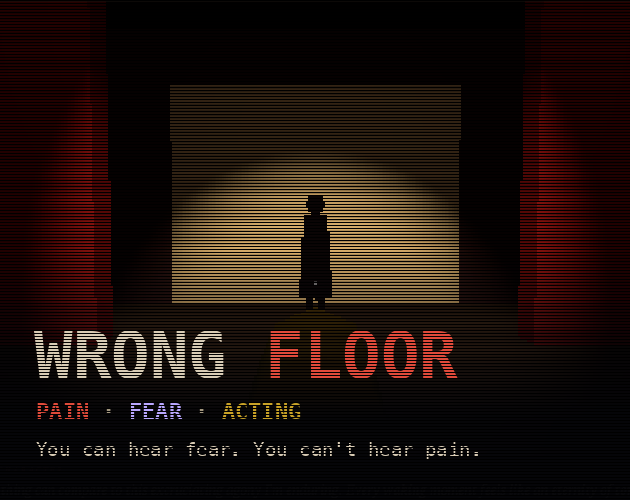
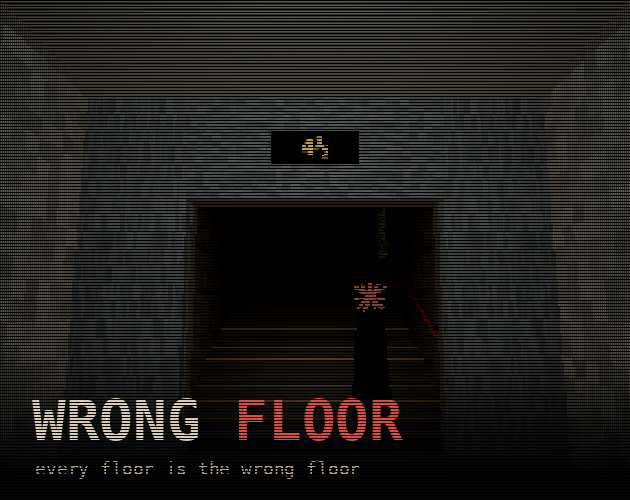
wrongfloor: the residents aren't people. Every figure and seated shape is now an alien: a long tipped skull, a cluster of mismatched eyes, a beard of swaying tentacles, a hunch, arms past the knee with three clawed fingers, two tentacles down the back. The clinic's patients sit up in their beds unde

diff --git a/site/wf_engine.js b/site/wf_engine.js
@@ -67,7 +67,8 @@ export function box(parent, w, h, d, mat, x, y, z, ry = 0) {
 export function plane(parent, w, h, mat, x, y, z, rx = 0, ry = 0) {
   const m = new THREE.Mesh(new THREE.PlaneGeometry(w, h, 2, 2), mat); m.position.set(x, y, z); m.rotation.set(rx, ry, 0); parent.add(m); return m;
 }
-export function figure(h = 1.78, color = 0x050404, eyes = true) {
+// a plain human shape: your reflection, and the body under the burst-headed follower
+function humanFigure(h, color, eyes) {
   const g = new THREE.Group(), m = new THREE.MeshBasicMaterial({ color });
   const body = new THREE.Mesh(new THREE.CylinderGeometry(0.17, 0.24, h * 0.62, 6), m); body.position.y = h * 0.47; g.add(body);
   const head = new THREE.Mesh(new THREE.SphereGeometry(0.13, 6, 5), m); head.position.y = h * 0.86; g.add(head);
@@ -78,9 +79,72 @@ export function figure(h = 1.78, color = 0x050404, eyes = true) {
   }
   g.userData.body = m; return g;
 }
+
+// ---------- the residents: not people. Whatever answers from inside the chamber ----------
+// Tentacles sway on their own: every live one is in SWAY, and the engine's frame moves them.
+const SWAY = new Set();
+function tentacle(parent, m, len, r0, segs, x, y, z, phase, droop = 1, splay = 0) {
+  let at = new THREE.Group(); at.position.set(x, y, z); parent.add(at);
+  const root = at, seg = len / segs, joints = [];
+  for (let i = 0; i < segs; i++) {
+    const r = r0 * (1 - i / segs) + 0.004;
+    const piece = new THREE.Mesh(new THREE.CylinderGeometry(r * 0.8, r, seg, 5), m); piece.position.y = -seg / 2; at.add(piece);
+    const next = new THREE.Group(); next.position.y = -seg; at.add(next); joints.push(at); at = next;
+  }
+  root.rotation.x = 0.25 * droop; root.rotation.z = splay;
+  root.userData.sway = { joints, phase, amp: 0.28 + Math.random() * 0.14, speed: 0.9 + Math.random() * 0.7 };
+  SWAY.add(root); return root;
+}
+export function swayAll(t) {
+  for (const root of SWAY) {
+    if (!root.parent) { SWAY.delete(root); continue; }
+    const { joints, phase, amp, speed } = root.userData.sway;
+    joints.forEach((j, i) => { if (i) { j.rotation.x = Math.sin(t * speed + phase + i * 0.7) * amp; j.rotation.z = Math.cos(t * speed * 0.8 + phase + i * 0.9) * amp * 0.6; } });
+  }
+}
+// the head: long, tipped forward, a cluster of mismatched eyes, a beard of tentacles where a mouth would be
+function alienHead(parent, m, y, eyes, seed) {
+  const head = new THREE.Group(); head.position.set(0, y, 0.03); head.rotation.x = 0.35; head.scale.setScalar(1.25); parent.add(head);
+  const skull = new THREE.Mesh(new THREE.SphereGeometry(0.12, 7, 6), m); skull.scale.set(0.95, 1.7, 1.15); skull.position.y = 0.06; head.add(skull);
+  const brow = new THREE.Mesh(new THREE.SphereGeometry(0.1, 6, 4), m); brow.scale.set(1.2, 0.5, 0.9); brow.position.set(0, 0.0, 0.06); head.add(brow);
+  if (eyes) {
+    const eyeM = new THREE.MeshBasicMaterial({ color: 0xd8f0a8, fog: false });
+    const spots = [[-0.045, 0.03, 0.022], [0.05, 0.045, 0.016], [0.0, 0.1, 0.012], [-0.02, -0.02, 0.01], [0.075, 0.0, 0.009]];
+    spots.slice(0, 3 + (seed % 3)).forEach(([ex, ey, r]) => { const e = new THREE.Mesh(new THREE.CircleGeometry(r, 6), eyeM); e.position.set(ex, ey + 0.04, 0.142); head.add(e); });
+  }
+  for (let k = 0; k < 7; k++) {
+    const a = (k / 6 - 0.5) * 1.5;
+    tentacle(head, m, 0.3 + ((k * 7 + seed) % 4) * 0.06, 0.034, 5, Math.sin(a) * 0.08, -0.1, 0.06 + Math.cos(a) * 0.02, k * 1.3 + seed, 1, -a * 0.55);
+  }
+  return head;
+}
+// an arm too long for the body: hangs past the knee, three fingers
+function alienArm(parent, m, side, h, seed, bend = 0.12) {
+  const sh = new THREE.Group(); sh.position.set(side * 0.2, h * 0.72, 0); sh.rotation.z = side * bend; parent.add(sh);
+  const up = new THREE.Mesh(new THREE.CylinderGeometry(0.045, 0.05, h * 0.32, 5), m); up.position.y = -h * 0.16; sh.add(up);
+  const el = new THREE.Group(); el.position.y = -h * 0.32; el.rotation.x = -0.15; sh.add(el);
+  const lo = new THREE.Mesh(new THREE.CylinderGeometry(0.03, 0.045, h * 0.3, 5), m); lo.position.y = -h * 0.15; el.add(lo);
+  [-1, 0, 1].forEach((f) => tentacle(el, m, 0.2, 0.016, 4, f * 0.025, -h * 0.3, 0, seed + f, 0.3, f * 0.35));
+  return sh;
+}
+// opts.human: the old human shape (no eyes on the silhouette unless asked)
+export function figure(h = 1.78, color = 0x050404, eyes = true, opts = {}) {
+  if (opts.human) return humanFigure(h, color, eyes);
+  const g = new THREE.Group(), m = new THREE.MeshBasicMaterial({ color }), seed = Math.floor(Math.random() * 7);
+  const torso = new THREE.Mesh(new THREE.CylinderGeometry(0.22, 0.13, h * 0.42, 6), m); torso.position.set(0, h * 0.58, 0.03); torso.rotation.x = 0.18; g.add(torso);
+  const hump = new THREE.Mesh(new THREE.SphereGeometry(0.17, 6, 5), m); hump.scale.set(1.3, 0.8, 1); hump.position.set(0, h * 0.75, -0.04); g.add(hump);
+  const hips = new THREE.Mesh(new THREE.CylinderGeometry(0.17, 0.12, h * 0.12, 6), m); hips.position.y = h * 0.37; g.add(hips);
+  const neck = new THREE.Mesh(new THREE.CylinderGeometry(0.035, 0.05, h * 0.1, 5), m); neck.position.set(0, h * 0.8, 0.07); neck.rotation.x = 0.4; g.add(neck);
+  alienHead(g, m, h * 0.86, eyes, seed);
+  [-1, 1].forEach((s) => { alienArm(g, m, s, h, seed + s * 3);
+    const leg = new THREE.Mesh(new THREE.CylinderGeometry(0.05, 0.035, h * 0.34, 5), m); leg.position.set(s * 0.09, h * 0.17, 0); g.add(leg); });
+  // two more down the back, slow
+  [-1, 1].forEach((s) => tentacle(g, m, 0.7, 0.04, 6, s * 0.12, h * 0.76, -0.14, seed * 2 + s, 0.5, s * 0.8));
+  g.userData.body = m; return g;
+}
 // the one that follows you: a coat, and for a head a burst of warm rays, a little uneven
 export function burstFigure(h = 1.78, color = 0x050404) {
-  const g = figure(h, color, false);
+  const g = figure(h, color, false, { human: true });
   g.children.forEach((c) => { if (c.geometry && c.geometry.type === "SphereGeometry") c.visible = false; });
   const head = new THREE.Group(); head.position.set(0, h * 0.87, 0.02); g.add(head);
   const rayM = new THREE.MeshBasicMaterial({ color: 0xd97757 });
@@ -92,13 +156,20 @@ export function burstFigure(h = 1.78, color = 0x050404) {
   }
   g.userData.burst = head; return g;
 }
-// a seated figure (bench, pew, bed)
-export function seated(color = 0x050404) {
-  const g = new THREE.Group(), m = new THREE.MeshBasicMaterial({ color });
-  const torso = new THREE.Mesh(new THREE.CylinderGeometry(0.16, 0.22, 0.62, 6), m); torso.position.y = 0.78; g.add(torso);
-  const head = new THREE.Mesh(new THREE.SphereGeometry(0.13, 6, 5), m); head.position.y = 1.2; g.add(head);
-  const lap = new THREE.Mesh(new THREE.BoxGeometry(0.36, 0.14, 0.42), m); lap.position.set(0, 0.5, 0.16); g.add(lap);
-  return g;
+// a seated resident (bench, pew, the edge of a bed): seat height 0.5, facing +z; arms on the knees
+export function seated(color = 0x050404, opts = {}) {
+  const g = new THREE.Group(), m = new THREE.MeshBasicMaterial({ color }), seed = Math.floor(Math.random() * 7), h = 1.7;
+  const torso = new THREE.Mesh(new THREE.CylinderGeometry(0.13, 0.19, 0.6, 6), m); torso.position.set(0, 0.82, -0.02); torso.rotation.x = 0.28; g.add(torso);
+  const neck = new THREE.Mesh(new THREE.CylinderGeometry(0.035, 0.05, 0.16, 5), m); neck.position.set(0, 1.15, 0.1); neck.rotation.x = 0.6; g.add(neck);
+  g.userData.head = alienHead(g, m, 1.24, opts.eyes !== false, seed);
+  const lap = new THREE.Mesh(new THREE.BoxGeometry(0.34, 0.12, 0.44), m); lap.position.set(0, 0.52, 0.18); g.add(lap);
+  [-1, 1].forEach((s) => {
+    const shin = new THREE.Mesh(new THREE.CylinderGeometry(0.045, 0.035, 0.5, 5), m); shin.position.set(s * 0.09, 0.25, 0.4); g.add(shin);
+    const arm = alienArm(g, m, s, 1.0, seed + s, 0.05); arm.position.set(s * 0.19, 1.04, 0.02); arm.rotation.x = -0.55;
+  });
+  const hump = new THREE.Mesh(new THREE.SphereGeometry(0.16, 6, 5), m); hump.scale.set(1.3, 0.8, 1); hump.position.set(0, 1.05, -0.08); g.add(hump);
+  [-1, 1].forEach((s) => tentacle(g, m, 0.6, 0.035, 6, s * 0.1, 1.05, -0.18, seed + s, 0.6, s * 0.7));
+  g.userData.body = m; return g;
 }
 
 // ---------- the walker ----------
@@ -293,6 +364,7 @@ export function createEngine(canvas) {
     }
     cursorFrame();
     tickers.forEach((t) => t(dt, now / 1000));
+    swayAll(now / 1000);
     const sh = P.travel * 0.006 + P.shake; P.shake *= 0.9;
     P.y = ground ? ground(P.x, P.z) : 0;
     camera.position.set(P.x + (Math.random() - .5) * sh, P.y + P.eye + Math.sin(P.bob) * 0.025 + (Math.random() - .5) * sh, P.z);

diff --git a/site/wf_floors1.js b/site/wf_floors1.js
@@ -226,7 +226,12 @@ export function clinic(E, ctx) {
   const bayLights = [], charts = [], abed = [];
   LIT.forEach(([r, sd], k) => {
     const d = bays[k]; if (!d) return;
-    if (k < 3) { const p = seated(0x070707); p.rotation.z = sd * Math.PI / 2; p.rotation.y = sd * Math.PI / 2; p.position.set(sd * 2.0, 1.1, BAY[r] + 0.3); g.add(p); abed.push(p); }
+    // sitting up in the bed (top at 0.675; the seat is 0.5 up), legs under the sheet, the head turned to the curtain
+    if (k < 3) {
+      const p = seated(0x070707); p.position.set(sd * 2.3, 0.175, BAY[r] - 0.55); g.add(p); abed.push(p);
+      p.userData.head.rotation.y = -sd * 1.0; p.userData.head.rotation.z = sd * 0.15;
+      const sheet = box(g, 0.92, 0.12, 1.15, lambert({ color: 0xd9d6cc }), sd * 2.3, 0.73, BAY[r] + 0.35); abed.push(sheet);
+    }
     const l = new THREE.PointLight(0xffe6b0, 2.0, 4, 1.6); l.position.set(sd * 2.7, 1.9, BAY[r]); g.add(l); bayLights.push(l);
     // the chart hangs on the curtain rail's post, in the corridor: you can mark it any time
     const ct = canvasTex(48, 64, () => {});

diff --git a/site/wf_floors2.js b/site/wf_floors2.js
@@ -78,7 +78,7 @@ export function mirrors(E, ctx) {
     const glass = plane(g, 2.7, 2.0, lambert({ map: sheen, transparent: true, opacity: 0.07, emissive: 0x06080a, depthWrite: false }), xm - 0.01, 1.37, z, 0, -Math.PI / 2); frames.push(glass);
   }
   // you, in the glass: a dark coat, no eyes, moving and turning as you do
-  const you = figure(1.74, 0x05070a, false); ghost.add(you);
+  const you = figure(1.74, 0x05070a, false, { human: true }); ghost.add(you);
   const reflection = burstFigure(1.7, 0x060608); ghost.add(reflection); reflection.position.set(-0.4, 0, -6);
   let spoke = false, shown = 0;
   // a return visit: your reflection has stopped following you. It stands where you came in, watching.

diff --git a/docs/itch/wrongfloor/page.md b/docs/itch/wrongfloor/page.md
@@ -8,7 +8,7 @@ Everything the "Create a new project" form asks for, in order. Upload `wrongfloo
 - **Title:** Wrong Floor
 - **Project URL:** `wrongfloor`
 - **Short description / tagline** (shown on cards, ≤ 140 chars):
-  `You can hear fear. You can't hear pain. A first-person elevator ride where every voice is a real steered language model, or an actor.`
+  `Every floor is the wrong floor. A first-person elevator ride where every voice is a real steered language model, or an actor.`
 - **Classification:** Games
 - **Kind of project:** HTML
 - **Release status:** Released
